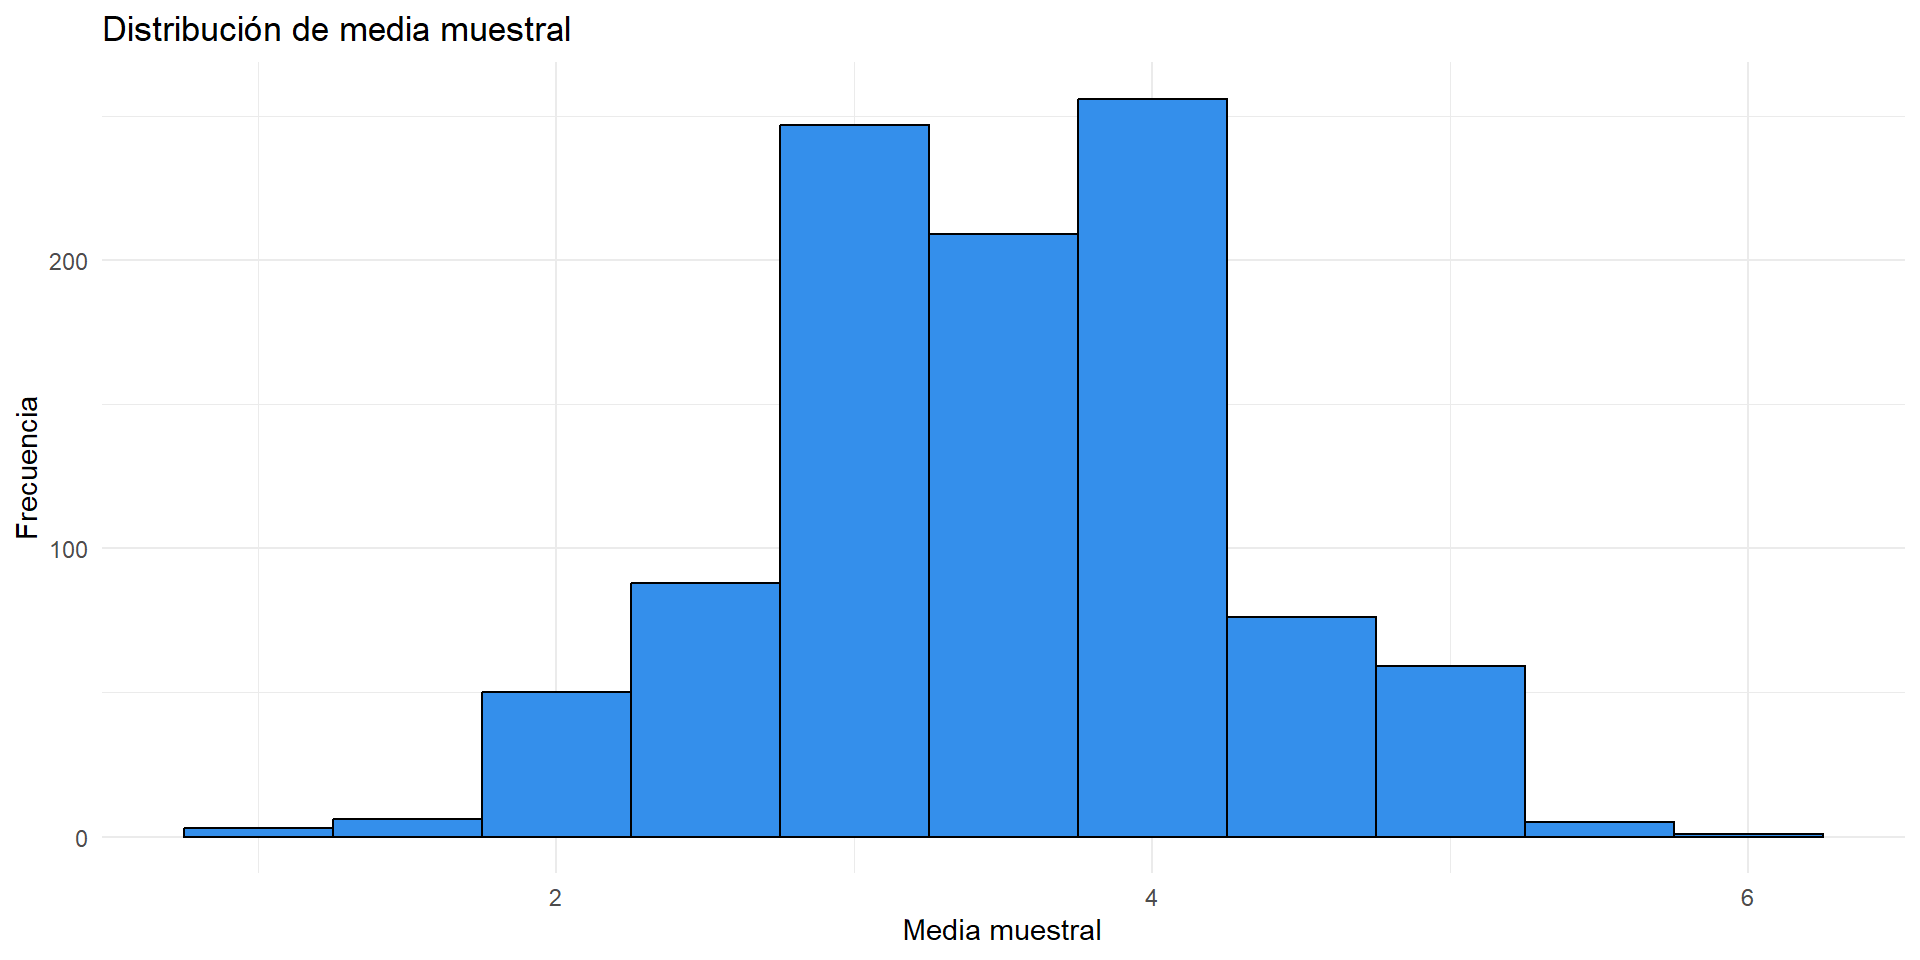
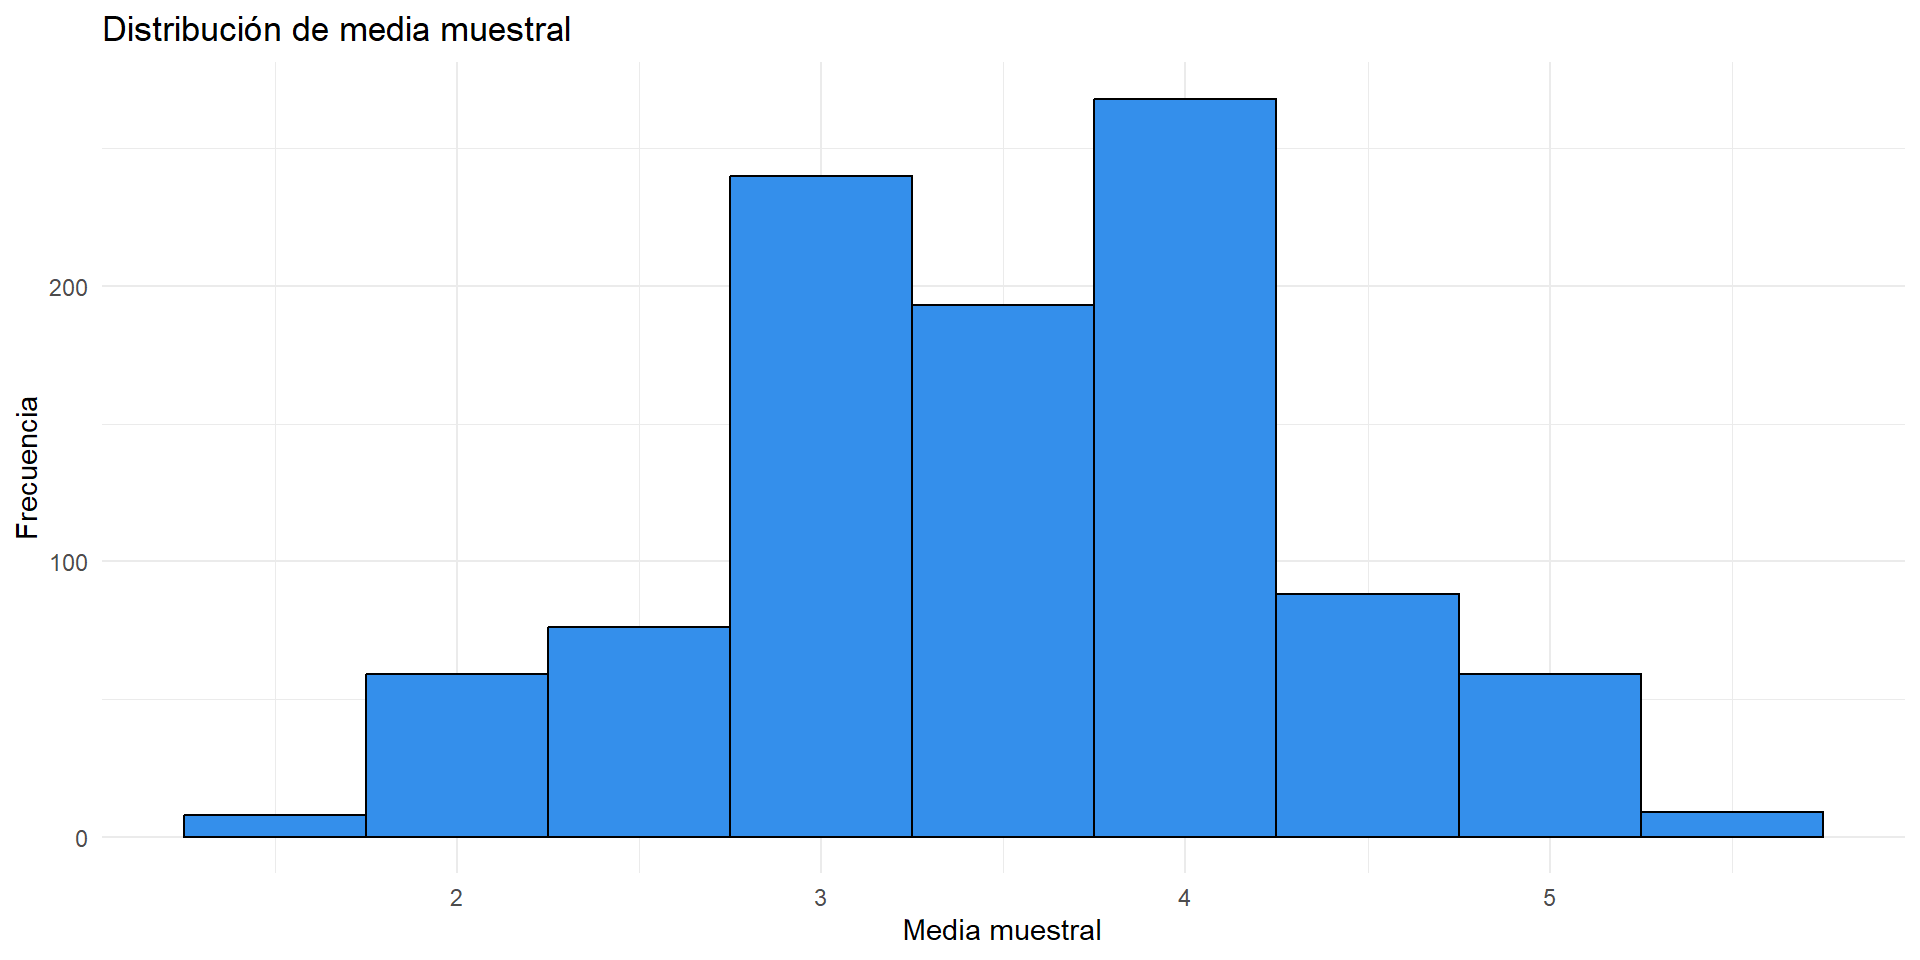
updating html

diff --git a/clase4/prob_zscore.html b/clase4/prob_zscore.html
@@ -772,18 +772,18 @@ Probabilidad, Z-Score y Distribuciones Muestrales
 <span id="cb1-7"><a href="#cb1-7"></a></span>
 <span id="cb1-8"><a href="#cb1-8"></a>muestra_de_5</span></code><button title="Copy to Clipboard" class="code-copy-button"><i class="bi"></i></button></pre></div>
 <div class="cell-output cell-output-stdout">
-<pre><code>[1] 2 2 4 6 4</code></pre>
+<pre><code>[1] 4 6 2 2 5</code></pre>
 </div>
 <div class="sourceCode cell-code" id="cb3"><pre class="sourceCode numberSource r number-lines code-with-copy"><code class="sourceCode r"><span id="cb3-1"><a href="#cb3-1"></a><span class="do">## Y calculemos su media</span></span>
 <span id="cb3-2"><a href="#cb3-2"></a><span class="fu">mean</span>(muestra_de_5)</span></code><button title="Copy to Clipboard" class="code-copy-button"><i class="bi"></i></button></pre></div>
 <div class="cell-output cell-output-stdout">
-<pre><code>[1] 3.6</code></pre>
+<pre><code>[1] 3.8</code></pre>
 </div>
 <div class="sourceCode cell-code" id="cb5"><pre class="sourceCode numberSource r number-lines code-with-copy"><code class="sourceCode r"><span id="cb5-1"><a href="#cb5-1"></a><span class="do">## Otra manera de calcular la media</span></span>
 <span id="cb5-2"><a href="#cb5-2"></a><span class="do">## de una muestra de 5</span></span>
 <span id="cb5-3"><a href="#cb5-3"></a><span class="fu">sample</span>(dado, <span class="dv">5</span>, <span class="at">replace =</span> <span class="cn">TRUE</span>) <span class="sc">%&gt;%</span> <span class="fu">mean</span>()</span></code><button title="Copy to Clipboard" class="code-copy-button"><i class="bi"></i></button></pre></div>
 <div class="cell-output cell-output-stdout">
-<pre><code>[1] 3.4</code></pre>
+<pre><code>[1] 2.6</code></pre>
 </div>
 </div>
 </div><div class="column" style="width:50%;">
@@ -807,17 +807,17 @@ Probabilidad, Z-Score y Distribuciones Muestrales
 <span id="cb7-7"><a href="#cb7-7"></a></span>
 <span id="cb7-8"><a href="#cb7-8"></a>muestra_de_5</span></code><button title="Copy to Clipboard" class="code-copy-button"><i class="bi"></i></button></pre></div>
 <div class="cell-output cell-output-stdout">
-<pre><code>[1] 6 3 1 2 3</code></pre>
+<pre><code>[1] 6 4 4 4 1</code></pre>
 </div>
 <div class="sourceCode cell-code" id="cb9"><pre class="sourceCode numberSource r number-lines code-with-copy"><code class="sourceCode r"><span id="cb9-1"><a href="#cb9-1"></a><span class="do">## Y calculemos su media</span></span>
 <span id="cb9-2"><a href="#cb9-2"></a><span class="fu">mean</span>(muestra_de_5)</span></code><button title="Copy to Clipboard" class="code-copy-button"><i class="bi"></i></button></pre></div>
 <div class="cell-output cell-output-stdout">
-<pre><code>[1] 3</code></pre>
+<pre><code>[1] 3.8</code></pre>
 </div>
 <div class="sourceCode cell-code" id="cb11"><pre class="sourceCode numberSource r number-lines code-with-copy"><code class="sourceCode r"><span id="cb11-1"><a href="#cb11-1"></a><span class="do">## Otra manera de calcular la media de una muestra de 5</span></span>
 <span id="cb11-2"><a href="#cb11-2"></a><span class="fu">sample</span>(dado, <span class="dv">5</span>, <span class="at">replace =</span> <span class="cn">TRUE</span>) <span class="sc">%&gt;%</span> <span class="fu">mean</span>()</span></code><button title="Copy to Clipboard" class="code-copy-button"><i class="bi"></i></button></pre></div>
 <div class="cell-output cell-output-stdout">
-<pre><code>[1] 2.6</code></pre>
+<pre><code>[1] 2.2</code></pre>
 </div>
 </div>
 </section>
